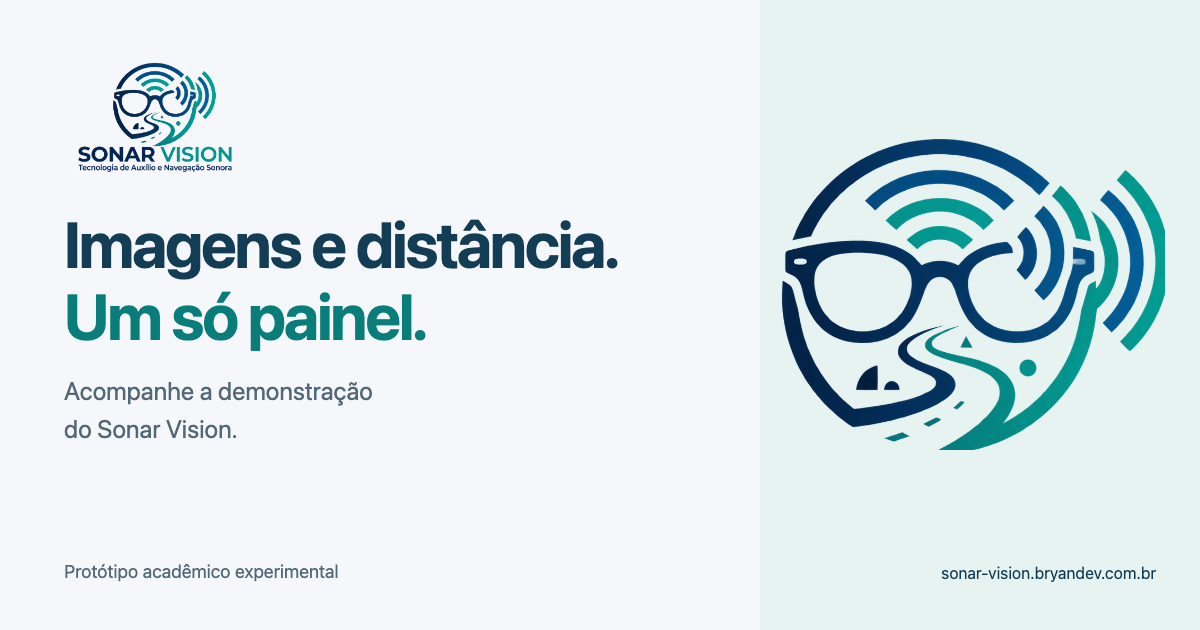
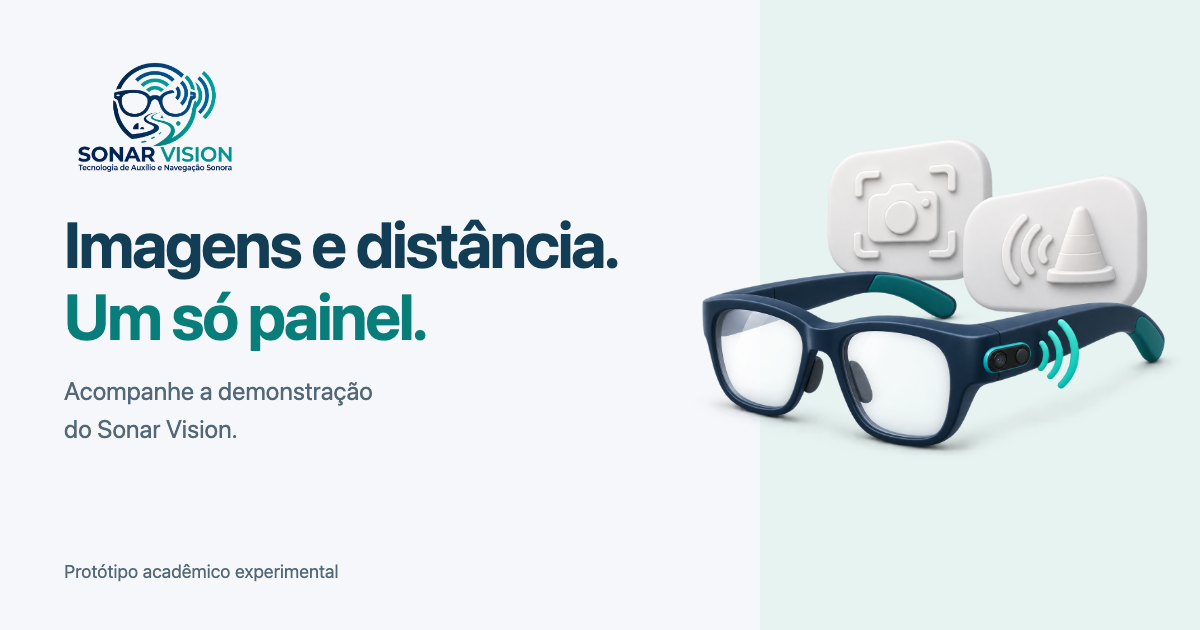
feat(demo): add conceptual 3D social card without domain text (#73)

Changed region(s): [[0.5858, 0.2111, 0.9867, 0.7238], [0.7708, 0.9048, 0.9558, 0.9349]]

diff --git a/docs/assets/og-sonar-vision.html b/docs/assets/og-sonar-vision.html
@@ -1,3 +1,3 @@
 <!doctype html><html lang="pt-BR"><head><meta charset="utf-8"><style>
- *{box-sizing:border-box}body{margin:0;width:1200px;height:630px;background:#f5f7fa;color:#123d54;font-family:system-ui,-apple-system,sans-serif;overflow:hidden}.copy{position:absolute;left:64px;top:50px;width:660px}.brand{width:240px;height:130px;object-fit:contain;object-position:left center;mix-blend-mode:multiply;margin-left:-28px}h1{font-size:64px;font-weight:680;letter-spacing:-2px;line-height:1.12;margin:26px 0 20px}h1 span{color:#087d79}p{font-size:25px;line-height:1.5;margin:0;color:#526877;max-width:560px}.side{position:absolute;inset:0 0 0 760px;background:#e7f3f1}.emblem{position:absolute;left:770px;top:130px;width:395px;height:320px;overflow:hidden}.emblem img{position:absolute;width:900px;height:auto;max-width:none;left:-280px;top:-40px;mix-blend-mode:multiply}.foot{position:absolute;bottom:48px;left:64px;font-size:18px;color:#526877}.domain{position:absolute;bottom:48px;right:44px;font-size:16px;color:#123d54}
- </style></head><body><div class="side"></div><div class="copy"><img class="brand" src="../../src/sonar_vision_api/demo_static/logo.jpeg" alt="Sonar Vision"><h1>Imagens e distância.<br><span>Um só painel.</span></h1><p>Acompanhe a demonstração<br>do Sonar Vision.</p></div><div class="emblem"><img src="../../src/sonar_vision_api/demo_static/logo.jpeg" alt=""></div><div class="foot">Protótipo acadêmico experimental</div><div class="domain">sonar-vision.bryandev.com.br</div></body></html>
+ *{box-sizing:border-box}body{margin:0;width:1200px;height:630px;background:#f5f7fa;color:#123d54;font-family:system-ui,-apple-system,sans-serif;overflow:hidden}.copy{position:absolute;left:64px;top:50px;width:660px}.brand{width:240px;height:130px;object-fit:contain;object-position:left center;mix-blend-mode:multiply;margin-left:-28px}h1{font-size:64px;font-weight:680;letter-spacing:-2px;line-height:1.12;margin:26px 0 20px}h1 span{color:#087d79}p{font-size:25px;line-height:1.5;margin:0;color:#526877;max-width:560px}.side{position:absolute;inset:0 0 0 760px;background:#e7f3f1}.emblem{position:absolute;left:670px;top:125px;width:520px;height:390px}.emblem img{display:block;width:520px;height:auto;max-width:none}.foot{position:absolute;bottom:48px;left:64px;font-size:18px;color:#526877}
+ </style></head><body><div class="side"></div><div class="copy"><img class="brand" src="../../src/sonar_vision_api/demo_static/logo.jpeg" alt="Sonar Vision"><h1>Imagens e distância.<br><span>Um só painel.</span></h1><p>Acompanhe a demonstração<br>do Sonar Vision.</p></div><div class="emblem"><img src="og-illustration-3d.png" alt=""></div><div class="foot">Protótipo acadêmico experimental</div></body></html>

diff --git a/src/sonar_vision_api/demo_static/login.html b/src/sonar_vision_api/demo_static/login.html
@@ -17,7 +17,7 @@
   <meta property="og:title" content="Sonar Vision — Painel de demonstração">
   <meta property="og:description" content="Imagens e leituras de distância do protótipo Sonar Vision em um só painel.">
   <meta property="og:url" content="https://sonar-vision.bryandev.com.br/">
-  <meta property="og:image" content="https://sonar-vision.bryandev.com.br/demo/assets/og-sonar-vision.png">
+  <meta property="og:image" content="https://sonar-vision.bryandev.com.br/demo/assets/og-sonar-vision.png?v=71382aad2c62">
   <meta property="og:image:type" content="image/png">
   <meta property="og:image:width" content="1200">
   <meta property="og:image:height" content="630">
@@ -25,7 +25,7 @@
   <meta name="twitter:card" content="summary_large_image">
   <meta name="twitter:title" content="Sonar Vision — Painel de demonstração">
   <meta name="twitter:description" content="Imagens e leituras de distância do protótipo Sonar Vision em um só painel.">
-  <meta name="twitter:image" content="https://sonar-vision.bryandev.com.br/demo/assets/og-sonar-vision.png">
+  <meta name="twitter:image" content="https://sonar-vision.bryandev.com.br/demo/assets/og-sonar-vision.png?v=71382aad2c62">
 </head>
 <body class="login-page">
   <main class="login-shell" aria-labelledby="login-title">

diff --git a/src/sonar_vision_api/demo_static/history.html b/src/sonar_vision_api/demo_static/history.html
@@ -9,7 +9,7 @@
   <meta property="og:title" content="Sonar Vision — Painel de demonstração">
   <meta property="og:description" content="Imagens e leituras de distância do protótipo Sonar Vision em um só painel.">
   <meta property="og:url" content="https://sonar-vision.bryandev.com.br/">
-  <meta property="og:image" content="https://sonar-vision.bryandev.com.br/demo/assets/og-sonar-vision.png">
+  <meta property="og:image" content="https://sonar-vision.bryandev.com.br/demo/assets/og-sonar-vision.png?v=71382aad2c62">
   <meta property="og:image:type" content="image/png">
   <meta property="og:image:width" content="1200">
   <meta property="og:image:height" content="630">
@@ -17,7 +17,7 @@
   <meta name="twitter:card" content="summary_large_image">
   <meta name="twitter:title" content="Sonar Vision — Painel de demonstração">
   <meta name="twitter:description" content="Imagens e leituras de distância do protótipo Sonar Vision em um só painel.">
-  <meta name="twitter:image" content="https://sonar-vision.bryandev.com.br/demo/assets/og-sonar-vision.png">
+  <meta name="twitter:image" content="https://sonar-vision.bryandev.com.br/demo/assets/og-sonar-vision.png?v=71382aad2c62">
 </head>
 <body class="history-page">
 <a class="skip" href="#main">Pular para o conteúdo</a>

diff --git a/src/sonar_vision_api/demo_static/index.html b/src/sonar_vision_api/demo_static/index.html
@@ -17,7 +17,7 @@
   <meta property="og:title" content="Sonar Vision — Painel de demonstração">
   <meta property="og:description" content="Imagens e leituras de distância do protótipo Sonar Vision em um só painel.">
   <meta property="og:url" content="https://sonar-vision.bryandev.com.br/">
-  <meta property="og:image" content="https://sonar-vision.bryandev.com.br/demo/assets/og-sonar-vision.png">
+  <meta property="og:image" content="https://sonar-vision.bryandev.com.br/demo/assets/og-sonar-vision.png?v=71382aad2c62">
   <meta property="og:image:type" content="image/png">
   <meta property="og:image:width" content="1200">
   <meta property="og:image:height" content="630">
@@ -25,7 +25,7 @@
   <meta name="twitter:card" content="summary_large_image">
   <meta name="twitter:title" content="Sonar Vision — Painel de demonstração">
   <meta name="twitter:description" content="Imagens e leituras de distância do protótipo Sonar Vision em um só painel.">
-  <meta name="twitter:image" content="https://sonar-vision.bryandev.com.br/demo/assets/og-sonar-vision.png">
+  <meta name="twitter:image" content="https://sonar-vision.bryandev.com.br/demo/assets/og-sonar-vision.png?v=71382aad2c62">
 </head>
 <body class="live-page">
 <a class="skip" href="#main">Pular para o conteúdo</a>

diff --git a/docs/demo-panel.md b/docs/demo-panel.md
@@ -325,3 +325,15 @@ exportado para `demo_static/og-sonar-vision.png` com viewport 1200×630, escala 
 Sem biblioteca nova no runtime. A busca inicial da prévia depende de a VM estar
 ligada; as plataformas podem manter cache próprio. O compartilhamento não abre
 as imagens recebidas pelo ESP.
+
+
+### Revisão visual do card — 04/11/2026
+
+Bryan pediu ilustração 3D, como nas referências Fleury/aiiaLabs, e remoção do
+endereço escrito no card. O novo card combina a marca original com uma
+ilustração conceitual 3D dos óculos; não é foto de um protótipo montado.
+A imagem visível não contém URL. Os metadados mantêm URL canônica e endereço
+absoluto da imagem para o compartilhamento funcionar.
+Fonte e procedência: [arte 3D](assets/og-illustration-3d.png),
+[registro de geração](assets/og-illustration-3d.provenance.json) e
+[composição HTML](assets/og-sonar-vision.html).

diff --git a/docs/collection.md b/docs/collection.md
@@ -1,6 +1,6 @@
 # Coleta experimental por rodada — ampliação da #73
 
-Responsável: Bryan, com apoio de IA. [ADR 0025](decisions/0025-coleta-historico-rodadas.md).
+Responsável: Bryan. [ADR 0025](decisions/0025-coleta-historico-rodadas.md).
 Ampliação autorizada em 27/10/2026: guardar JPEGs/previsões e ToF, baixar rodadas
 e consultar/reproduzir histórico. Coleta desativada por padrão; não altera o
 [contrato 0.1](protocol/eventos-semanticos.md) ou o descarte do [ao vivo](demo-panel.md).
